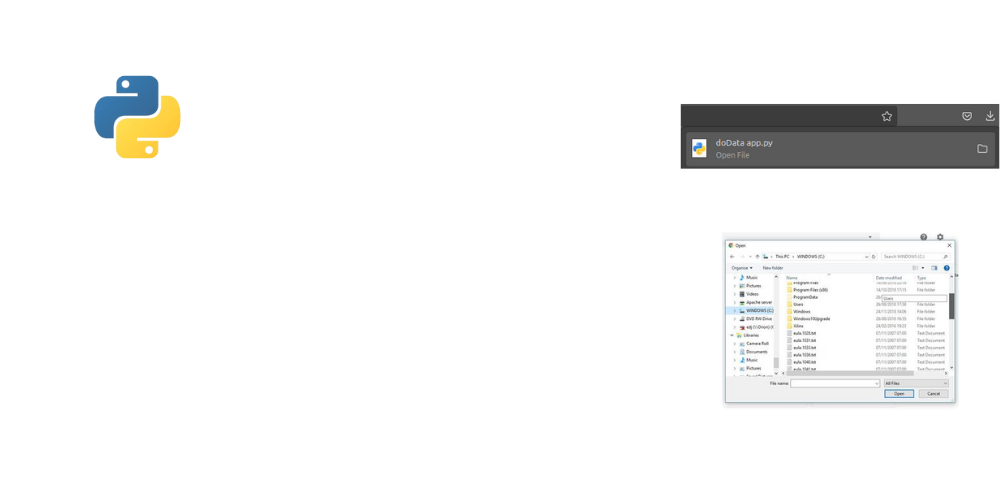
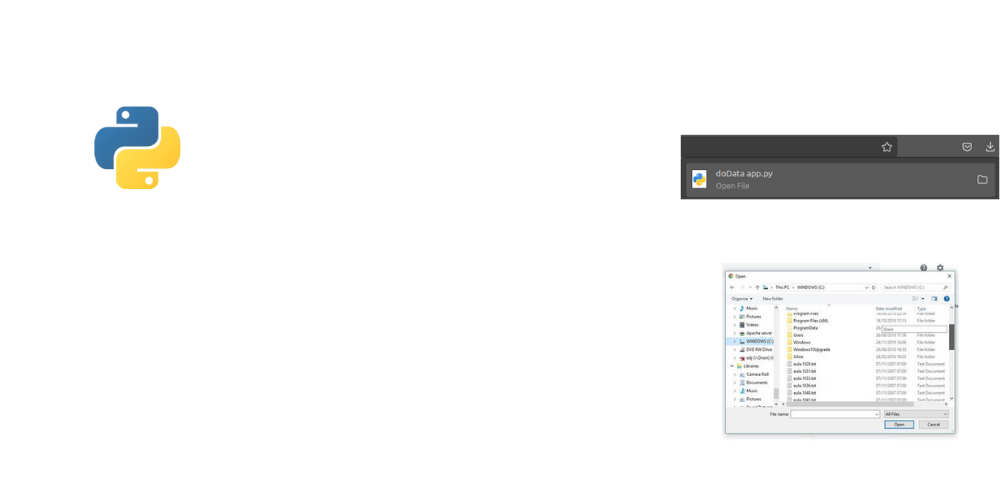
updated front page graphics

diff --git a/findandextract/templates/findandextract/fandemain.html b/findandextract/templates/findandextract/fandemain.html
@@ -131,12 +131,18 @@
                             </div>
                             <div class="center-flex-wrap">
                                 <h2>Copy and paste your column headers here:</h2> 
-                                <textarea class ="txt-column-heads" id="desc-col-headers" name="desc-col-heads" spellcheck="false" placeholder="ID    Country    Department    Sale_Date    Sale_Value    Units_Sold    First_Name    Last_Name    Client_ID    Client_Name" rows="1" cols="90" maxlength="600"></textarea>
+                                <textarea class ="txt-column-heads" id="desc-col-headers" name="desc-col-heads" spellcheck="false" placeholder="ID    Country    Department    Sale_Date    Sale_Value    Units_Sold    Client_Name" rows="1" cols="90" maxlength="600"></textarea>
                             </div>
-                            <input style="margin-top:1%;margin-bottom:8%;" class="downloadbutton" type="submit" name="submitdescpost" value="Submit" id="submit-desc-txt"/>
+                            <input style="margin-top:1%;margin-bottom:10%;" class="downloadbutton" type="submit" name="submitdescpost" value="Submit" id="submit-desc-txt"/>
                         </form>
                         <div>
-                            <img src="{% static 'images/Install Python.png' %}">
+                            <img src="{% static 'images/build a ui.png' %}">
+                            <div class="reveal">
+                                <img src="{% static 'images/Install Python.png' %}">
+                            </div>
+                            <div class="reveal">
+                                <img src="{% static 'images/local files.png' %}">
+                            </div>
                         </div>
                     </div>
 

diff --git a/findandextract/static/carouselactions.js b/findandextract/static/carouselactions.js
@@ -102,6 +102,26 @@ $(document).ready(function() {
 });
 
 
+$(document).ready(function () {
+  
+    /* Every time the window is scrolled ... */
+    document.addEventListener('scroll', function (event) {
+      console.log('hes')
+      /* Check the location of each desired element */
+      $('.reveal').each(function (i) {
+        console.log("MOSSS")
+        var bottom_of_object = $(this).offset().top + $(this).outerHeight();
+        var bottom_of_window = $(window).scrollTop() + $(window).height();
+        console.log(bottom_of_window + '  -   ' + bottom_of_object)
+        /* If the object is completely visible in the window, fade it in */
+        if (bottom_of_window > (bottom_of_object*.6)) {
+            console.log('shees')
+          $(this).animate({ 'opacity': '1' }, 1500);
+          /* 1500 is the duration of fade effect */
+        }
+      });
+    }, true /*Capture event*/);
+  });
 
 
 async function show_desc_box(){
@@ -293,8 +313,8 @@ async function carousel(carousel_obj, isHomeCarousel=false) {
 
 
 function center_action_text(obj_text, obj_id_raw){
-    var actionfyi_spacing = 14; // 9 is a random number fuckface
-    var action_spacing = 15;
+    var actionfyi_spacing = 12; // 9 is a random number fuckface
+    var action_spacing = 13;
     var obj_id = obj_id_raw.replace('#', '');
     var actionfyi_elem = document.getElementById(obj_id);
     var carousel_parent = actionfyi_elem.closest('.carouselcontainer');

diff --git a/findandextract/static/findandextract.css b/findandextract/static/findandextract.css
@@ -75,7 +75,7 @@ h2 {
     display:inline;
 }
 .carouselcontainer.actionfyi h2{
-    font-size:24px; 
+    font-size:20px; 
 }
 h3{
     font-size:16px;   
@@ -98,7 +98,7 @@ h4{
 }
 
 .action h2{
-    font-size:26px;
+    font-size:22px;
     color:rgba(255, 255, 255) !important;
     /*animation: flicker 5s infinite alternate;
     text-shadow: 1px 0px 4px #7e7e7e,
@@ -112,6 +112,9 @@ h4{
 }
 .actionfyi h2{
     color:rgb(208, 208, 215) !important;
+}
+.reveal{
+    opacity: 0;
 }
 
 @keyframes flicker {
